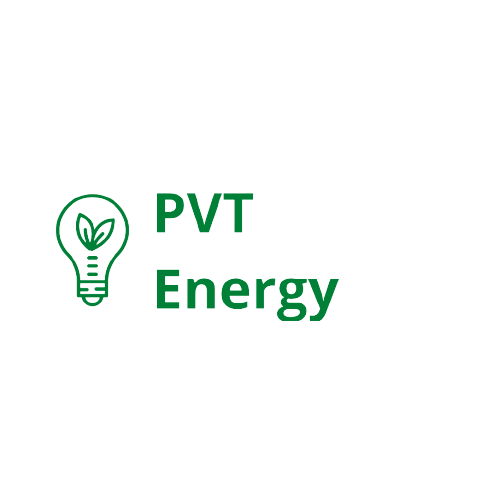
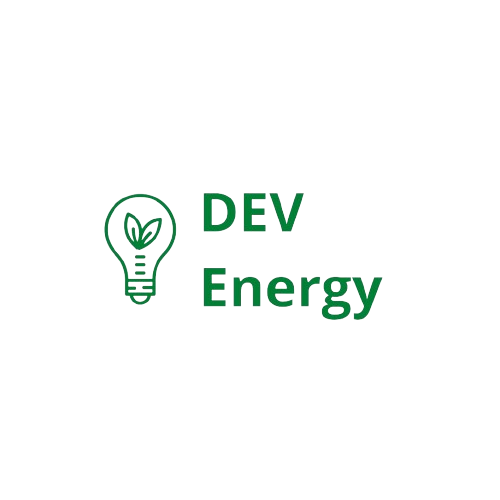
changing project name

Changed region(s): [[0.09, 0.36, 0.78, 0.66]]

diff --git a/frontend/src/components/custom-drawer/CustomDrawer.tsx b/frontend/src/components/custom-drawer/CustomDrawer.tsx
@@ -5,82 +5,144 @@ import {
   DrawerItemList,
 } from "@react-navigation/drawer";
 
-import { Avatar, Text, Button } from "react-native-paper";
+import { IconButton, Text, Button } from "react-native-paper";
 
 import { AppContext, UserContext } from "../../contexts/Main";
+
+import NotificationFooterBar from "../notification-footer-bar/NotificationFooterBar";
 import { styles } from "../css/GlobalStyles";
 
 const CustomDrawer = (props) => {
   const { setUserIsLoggedIn } = useContext(AppContext);
-  const { setUserId, userName, setUserName } = useContext(UserContext);
+  const {
+    setToken,
+    setUserId,
+    userName,
+    setUserName,
+    setUserEmail,
+    setAvailableMenuOptions,
+  } = useContext(UserContext);
 
   const [isLoading, setIsLoading] = useState<boolean>(false);
+  const [visibleNotificationFooterBar, setVisibleNotificationFooterBar] =
+    useState(false);
+  const [notificationFooterBarMessage, setNotificationFooterBarMessage] =
+    useState("");
+
+  const resetAppContexts = () => {
+    const reset = () => {
+      setUserIsLoggedIn(null);
+    };
+
+    reset();
+  };
+
+  const resetUserContexts = () => {
+    const reset = () => {
+      setToken(null);
+      setUserId(null);
+      setUserEmail(null);
+      setUserName(null);
+      setAvailableMenuOptions(null);
+    };
+
+    reset();
+  };
 
   const handleLogoutButton = () => {
     try {
       setIsLoading(true);
-      setUserId(null);
-      setUserName(null);
-      setUserIsLoggedIn(false);
+      resetUserContexts();
+      resetAppContexts();
     } catch (error) {
+      setNotificationFooterBarMessage(
+        "Ocorreu um erro ao fazer logout. Por favor, tente novamente."
+      );
+      onToggleNotificationFooterBar();
     } finally {
       setIsLoading(false);
     }
   };
 
+  const onToggleNotificationFooterBar = () =>
+    setVisibleNotificationFooterBar(!visibleNotificationFooterBar);
+
+  const onDismissNotificationFooterBar = () => {
+    setVisibleNotificationFooterBar(false);
+    setNotificationFooterBarMessage("");
+  };
+
   return (
-    <DrawerContentScrollView {...props}>
-      <View style={styles[1]}>
-        <View style={styles[2]}>
+    <View style={{ flex: 1 }}>
+      <DrawerContentScrollView {...props}>
+        <View
+          style={[
+            styles[1],
+            { borderBottomWidth: 1, borderBottomColor: "#000000", margin: 10 },
+          ]}
+        >
           <View style={styles[2]}>
-            <View style={styles[3]}>
-              <Avatar.Image
-                size={100}
-                source={require("../../assets/user.png")}
-              />
+            <View style={styles[2]}>
+              <View style={styles[3]}>
+                <IconButton
+                  icon="account-circle"
+                  iconColor="#000000"
+                  size={120}
+                />
+              </View>
+              <View style={styles[3]}>
+                <Text
+                  style={{
+                    textAlign: "center",
+                    fontSize: 15,
+                    color: "#000000",
+                    padding: 5,
+                  }}
+                >
+                  {userName}
+                </Text>
+              </View>
             </View>
           </View>
-          <View style={styles[3]}>
-            <Text
-              style={{
-                textAlign: "center",
-                fontSize: 15,
-                color: "#000000",
-                padding: 5,
-              }}
-            >
-              {userName}
-            </Text>
+        </View>
+        <DrawerItemList {...props} />
+        <View
+          style={[
+            styles[1],
+            { borderTopWidth: 1, borderTopColor: "#000000", margin: 10 },
+          ]}
+        >
+          <View style={styles[2]}>
+            <View style={styles[3]}>
+              <Button
+                disabled={isLoading}
+                loading={isLoading}
+                icon={isLoading ? null : "logout"}
+                mode="elevated"
+                buttonColor="#ff0000"
+                labelStyle={{ color: "#ffffff" }}
+                style={[
+                  styles[5],
+                  {
+                    width: 200,
+                    padding: 2,
+                    backgroundColor: !isLoading && "#ff0000",
+                  },
+                ]}
+                onPress={handleLogoutButton}
+              >
+                {isLoading ? "Saindo..." : "Sair"}
+              </Button>
+            </View>
           </View>
         </View>
-      </View>
-      <DrawerItemList {...props} />
-      <View style={styles[1]}>
-        <View style={styles[2]}>
-          <View style={styles[3]}>
-            <Button
-              disabled={isLoading}
-              loading={isLoading}
-              icon={isLoading ? null : "logout"}
-              mode="elevated"
-              buttonColor="#ff0000"
-              labelStyle={{ color: "#ffffff" }}
-              style={[
-                styles[5],
-                {
-                  width: 200,
-                  padding: 2,
-                  backgroundColor: !isLoading && "#ff0000",
-                },
-              ]}
-              onPress={handleLogoutButton}
-            >
-              {isLoading ? "Saindo..." : "Sair"}
-            </Button>
-          </View>
-        </View>
-      </View>
-    </DrawerContentScrollView>
+      </DrawerContentScrollView>
+      <NotificationFooterBar
+        visible={visibleNotificationFooterBar}
+        onDismiss={onDismissNotificationFooterBar}
+        message={notificationFooterBarMessage}
+      />
+    </View>
   );
 };
 

diff --git a/frontend/src/screens/auth/SignIn.tsx b/frontend/src/screens/auth/SignIn.tsx
@@ -81,7 +81,7 @@ const SignIn = ({ navigation }) => {
                   padding: 5,
                 }}
               >
-                Bem-vindo ao Pivete Energy
+                Bem-vindo ao DEV Energy
               </Text>
             </View>
           </View>

diff --git a/README.md b/README.md
@@ -32,18 +32,18 @@ Antes de começar, certifique-se de ter o Node.js instalado em sua máquina.
 
 1. Clone este repositório:
 
-    ° https://github.com/My-Name-Is-Rafael-Sampaio/pivete-energy.git
+   ° https://github.com/My-Name-Is-Rafael-Sampaio/dev-energy.git
 
 2. Instale as dependências:
 
-    ° cd nome-da-pasta
-        ° npm install
+   ° cd nome-da-pasta
+   ° npm install
 
 3. Inicie o projeto:
 
-    ° cd nome-da-pasta
-        ° npm start
-        ° npx expo start
+   ° cd nome-da-pasta
+   ° npm start
+   ° npx expo start
 
 4. Utilize o Expo Go para rodar a aplicação em um dispositivo móvel ou em um emulador.
 
